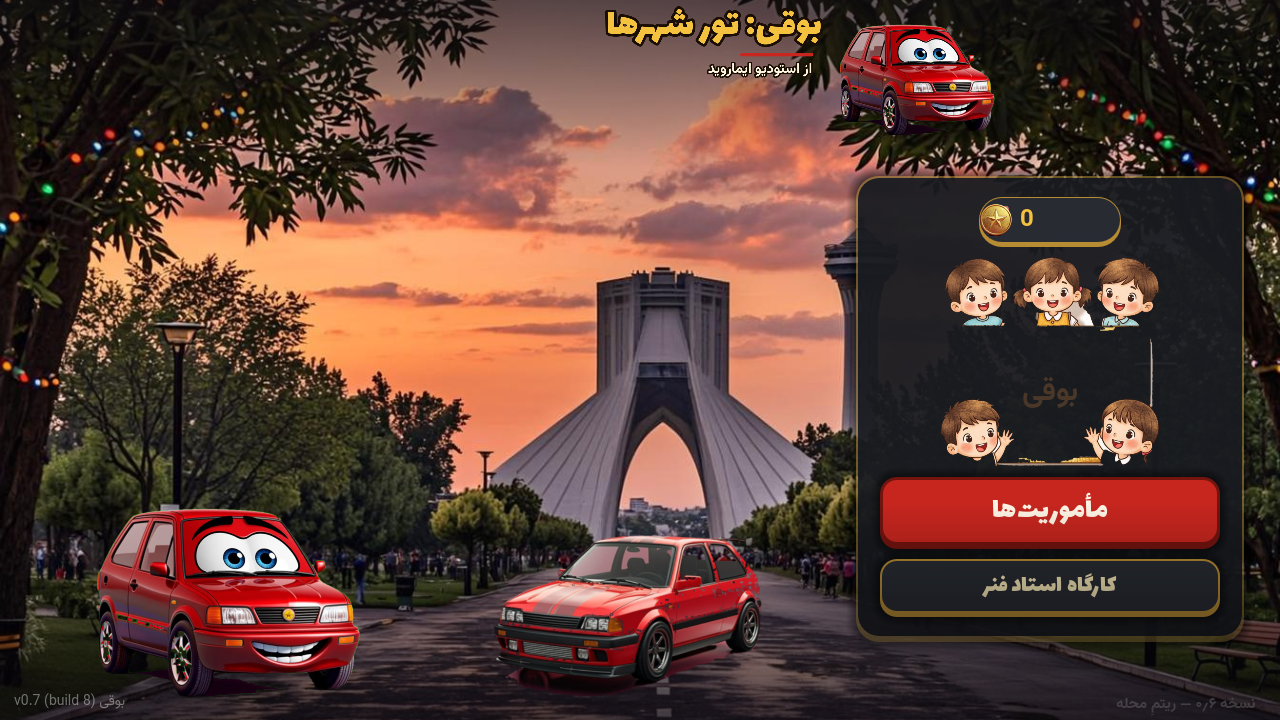
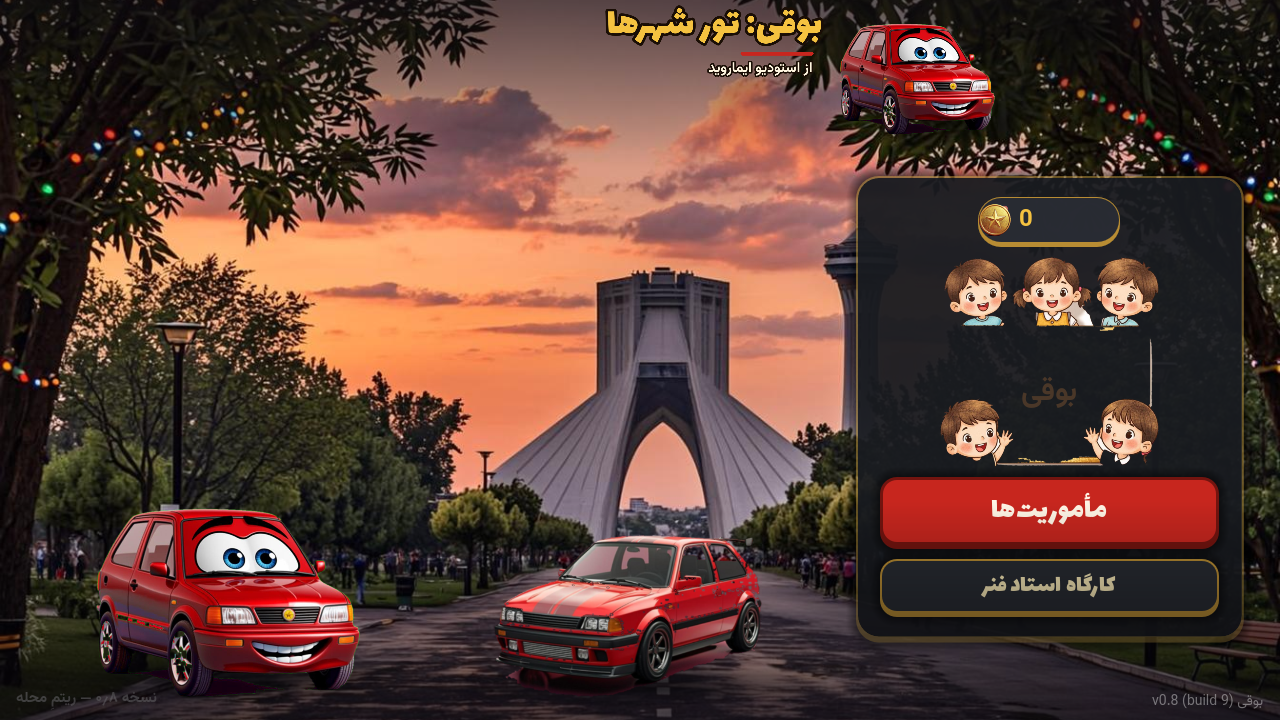
v0.8 (build 9): بازنویسی چیدمان منو به anchor-محور (فیکس غیبت پنل روی گوشی) + قفل LTR + نگهبان تشخیصی هندسه + اسکریپت باینری ضدکرک + جایگزینی assetهای همه ریلیزهای قدیمی با v0.8

diff --git a/docs/index.html b/docs/index.html
@@ -35,7 +35,7 @@
   <a class="btn ghost" href="https://github.com/ldrcoir/boghi-city-tour/releases/latest" target="_blank" rel="noopener">صفحه Releases</a>
   <p style="font-size:.9rem;color:#fde68a">حدود ۶۶ مگابایت · اندروید ۷ به بالا · بدون نیاز به اینترنت<br>این لینک همیشه آخرین نسخه را میدهد — آن را ذخیره کن!
   اگر نسخه قبلی (v0.3 قدیمی) را داری، اول حذفش کن بعد نصب کن.<br>
-  بعد از نصب، بالای صفحه بوت باید «بوقی v0.7 — بیلد ۸» (طلایی) دیده شود و آهنگ جدید (سنتور + درام) همان لحظه پخش شود — این یعنی نسخه درست است. همهی لینکهای قدیمی (v0.3 تا v0.6) هم اکنون همین فایل را میدهند.</p>
+  بعد از نصب، بالای صفحه بوت باید «بوقی v0.8 — بیلد ۹» (طلایی) دیده شود — این یعنی نسخه درست است. همهی لینکهای قدیمی (v0.3 تا v0.7) هم اکنون همین فایل را میدهند. اگر نصب نشد، اول نسخه قبلی را حذف کنید (کلید امضا تازهسازی شده).</p>
   <div class="shots">
     <img src="screenshots/shot_menu_v6.png" alt="منو">
     <img src="screenshots/shot_garage_v6a.png" alt="کارگاه استاد فنر">

diff --git a/README.md b/README.md
@@ -28,7 +28,7 @@
 **https://github.com/ldrcoir/boghi-city-tour/releases/latest/download/BoghiCityTour.apk**
 
 یا از صفحه [Releases](https://github.com/ldrcoir/boghi-city-tour/releases/latest) آخرین نسخه را بگیرید.
-بعد از نصب، بالای صفحه بوت باید «بوقی v0.7 — بیلد ۸» طلایی دیده شود و آهنگ جدید پخش شود — این یعنی نسخه درست اجرا شده. لینکهای قدیمی هم اکنون فایل v0.7 میدهند.
+بعد از نصب، بالای صفحه بوت باید «بوقی v0.8 — بیلد ۹» طلایی دیده شود — این یعنی نسخه درست اجرا شده. لینکهای قدیمی هم اکنون فایل v0.8 میدهند. اگر نصب نشد اول نسخه قبلی را uninstall کنید (کلید امضا عوض شده).
 
 ## تصاویر بازی
 | گیمپلی | کارگاه استاد فنر |
